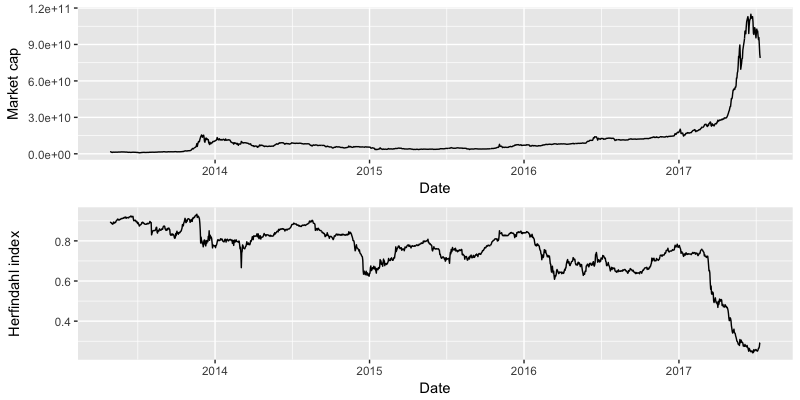
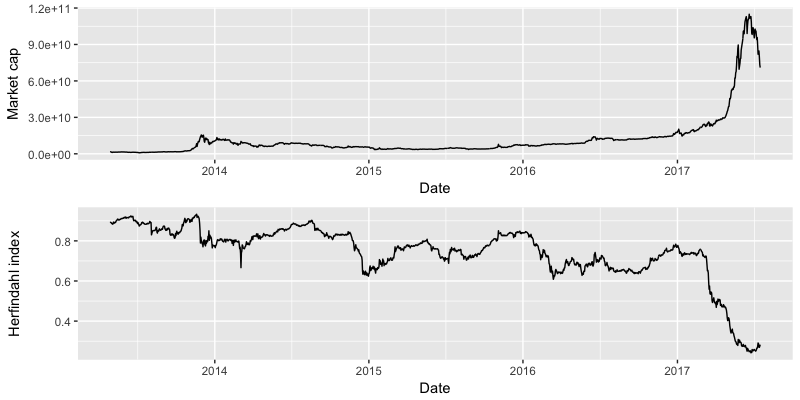
Updated with new data

diff --git a/README.md b/README.md
@@ -7,7 +7,7 @@ Especially in light of the increasing number of successful coins and [decreasing
 
 ## Progress
 
-*Data updated 12/07/2017. Restricted some visualizations to data from 2017*
+*Data updated 16/07/2017. Restricted some visualizations to data from 2017*
 
 This is a work in progress. Steps taken so far:
 
